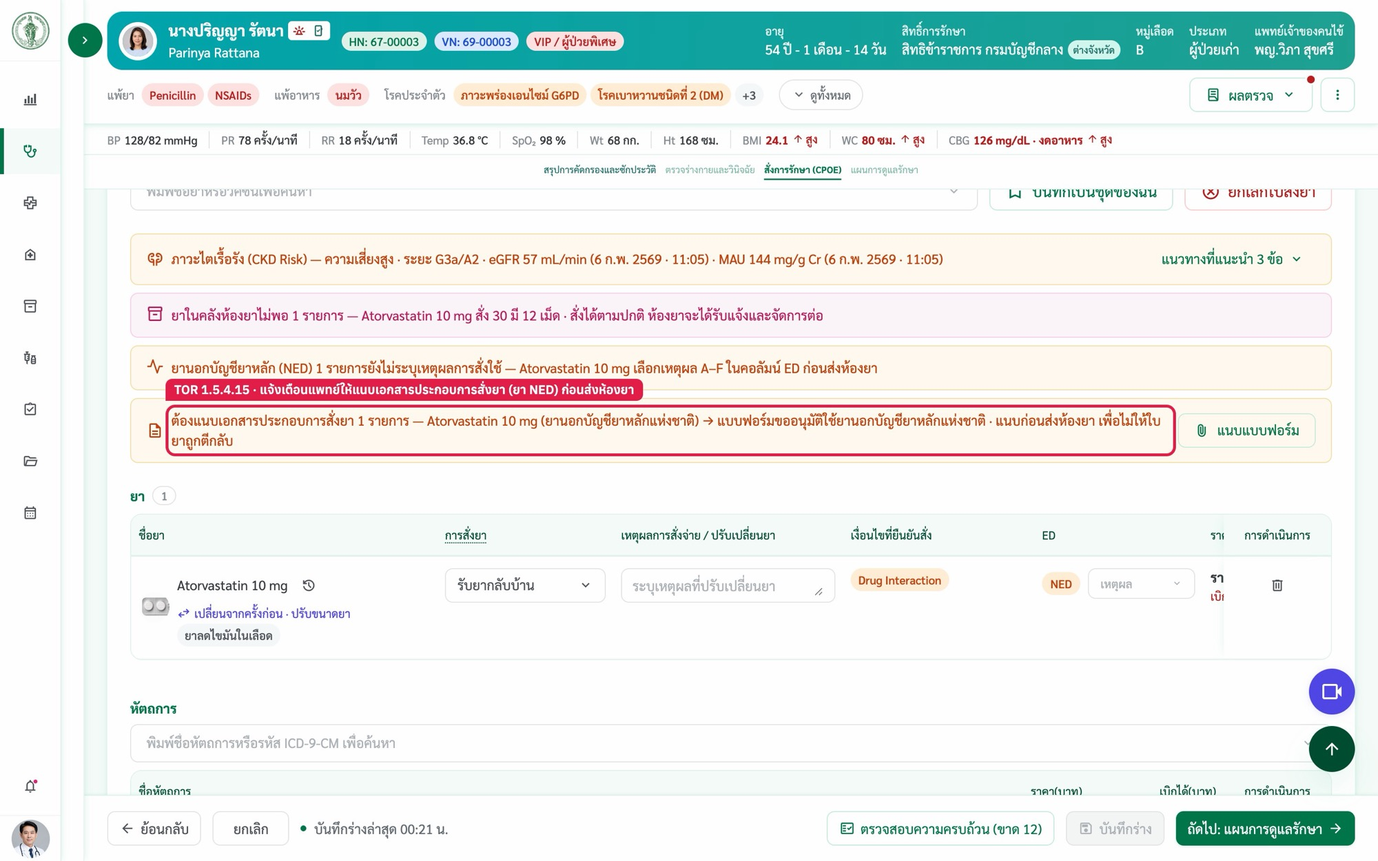
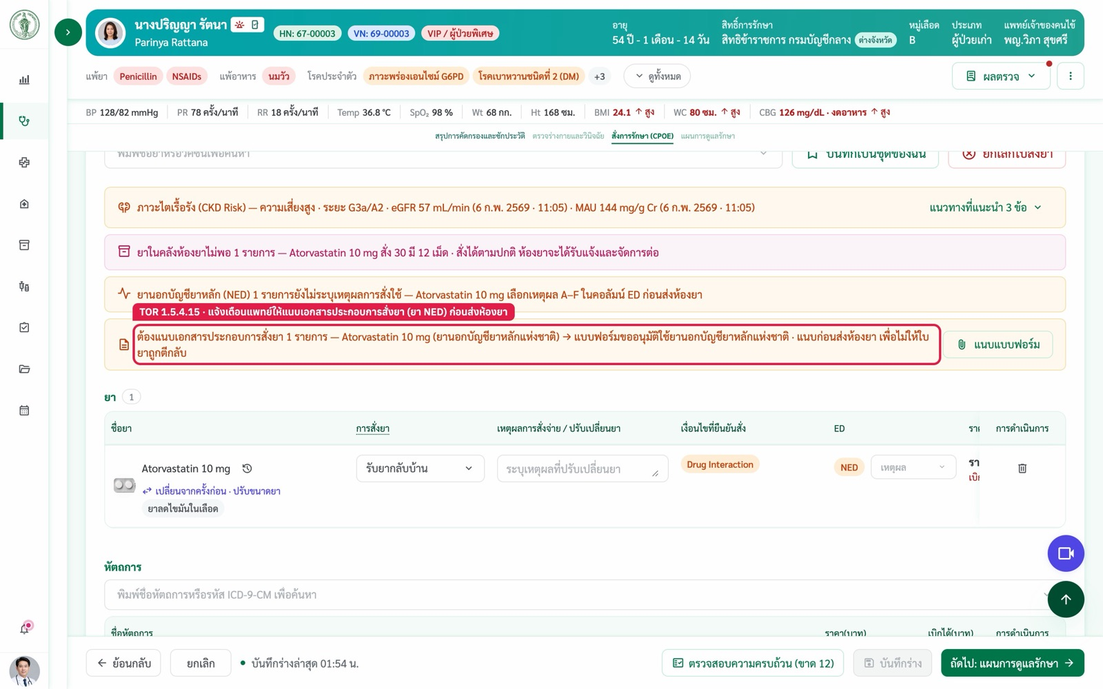
ระบบสั่งการรักษา CPOE (SDD 10.5): แยกเป็นเมนูของตัวเองในรายการปรับปรุง UI/UX (round-2569-11-16-cpoe · ย้ายออกจากรอบงานการเงิน) · 1.5.4.15 เพิ่มภาพป๊อปอัปแนบเอกสารประกอบการสั่งยา (เลือกไฟล์ · แนบแล้ว · มือถือ 390)

Changed region(s): [[0.4062, 0.465, 0.4375, 0.496], [0.0, 0.899, 0.0312, 0.93]]

diff --git a/tor-k9-addiction.html b/tor-k9-addiction.html
@@ -73,6 +73,11 @@
     <p class="lede" data-clinic="คลินิกบำบัดสารเสพติด (คทง.9)">ต้นฉบับ: Google Sheet "PHCIS_UIUX_คณะทำงาน_09" แท็บ Master Checklist (SUD-01–18) · ข้อความใน Excel คัดลอกคำต่อคำ · แก้อะไร · ดูยังไงทีละขั้น · ภาพจากระบบจริง (ข้อมูลผู้ป่วยตัวอย่าง) วงกรอบแดงตรงจุดที่แก้</p>
     <div id="tor-nav"></div>
   </header>
+  <section class="round" id="round-2569-11-16-cpoe">
+  <div class="card" id="cpoe-sdd-summary"><div class="head"><div><h2>รอบ 16 พ.ย. 2569 · ระบบการบันทึกข้อมูลการสั่งการรักษาโดยแพทย์ (CPOE) ตาม SDD 10.5 ข้อที่ BA หาหน้าจอไม่เจอ (2 ข้อ)</h2><p class="sum">ต้นฉบับ: Final 10.5_PHCIS_ระบบการบันทึกข้อมูลการสั่งการรักษาโดยแพทย์ (CPOE)_SDD-10.5 ข้อที่ BA highlight เพราะหาหน้าจอไม่เจอ · ข้อความคัดลอกคำต่อคำ · ภาพจากระบบจริง (ข้อมูลผู้ป่วยตัวอย่าง HN 67-00003) หน้าจอ 1440 px · ทั้ง 2 ข้อยังไม่มีบนหน้าจอ → ทำเพิ่มแล้ว</p></div></div><hr><div class="tbl"><table><thead><tr><th>ข้อ</th><th>เรื่อง</th><th>ระบบที่แก้</th><th>Kiosk (น้องดูแล)</th><th>สถานะ</th></tr></thead><tbody><tr><td class="code"><a href="#cpoe-15415">1.5.4.15</a></td><td>แจ้งเตือนการใช้เอกสารประกอบการสั่งยา (ยา NED)</td><td>เว็บ PHCIS · ห้องตรวจ › สั่งการรักษา (CPOE)</td><td>—</td><td><span class="chip nw c-green">ทำแล้ว · ทดสอบแล้ว</span></td></tr><tr><td class="code"><a href="#cpoe-1584">1.5.8.4</a></td><td>ส่งต่อภายนอก: แสดงวันที่มารับบริการ ระบบเพิ่มข้อมูลอัตโนมัติ</td><td>เว็บ PHCIS · ห้องตรวจ › ส่งต่อภายนอก › ใบส่งต่อการรักษา</td><td>—</td><td><span class="chip nw c-green">ทำแล้ว · ทดสอบแล้ว</span></td></tr></tbody></table></div></div>
+  <div class="card" id="cpoe-15415"><div class="head"><div><h2>1.5.4.15 · แจ้งเตือนการใช้เอกสารประกอบการสั่งยา</h2><p class="sum">SDD 10.5 CPOE · REQ-PHC1.5-44 · ในเอกสาร: "ขาดหน้าการสั่งการรักษา (CPOE) ของแพทย์ที่ต้องแนบเอกสารประกอบการสั่งยา NED"</p></div><span class="chip nw c-green">ทำแล้ว · ทดสอบแล้ว</span></div><hr><dl class="kv"><dt>ระบบที่แก้</dt><dd>เว็บ PHCIS · ห้องตรวจ › สั่งการรักษา (CPOE) · ทุกหน้าที่ใช้ตารางสั่งยาร่วม</dd><dt>Kiosk (น้องดูแล)</dt><dd>—</dd></dl><hr><p class="gh">ข้อความต้นฉบับ (SDD)</p><blockquote>๑.๕.๔.๑๕ สามารถแจ้งเตือนการใช้เอกสารประกอบการสั่งยา เพื่อให้แพทย์รับทราบ และลดการตีกลับของใบยา</blockquote><hr><p class="gh">แก้อะไร / มีอะไร</p><p>เดิมระบบรู้ว่ายาตัวไหนต้องมีแบบฟอร์มประกอบ แต่แถบเตือนอยู่ในแผงเก่าที่หน้าแพทย์ไม่ได้แสดง · รอบนี้เพิ่มแถบเตือนในตาราง CPOE ที่แพทย์ใช้จริง: สั่งยาที่ต้องมีเอกสาร (ยานอกบัญชียาหลัก NED · ยาเสพติดให้โทษ · วัตถุออกฤทธิ์ · ยาความเสี่ยงสูง) → แถบส้ม &quot;ต้องแนบเอกสารประกอบการสั่งยา N รายการ — ชื่อยา → ชื่อแบบฟอร์ม&quot; + ปุ่ม &quot;แนบแบบฟอร์ม&quot; · แนบแล้วแถบเปลี่ยนเป็นสีเขียว &quot;แนบเอกสารประกอบการสั่งยาแล้ว&quot; · ห้องยาเห็นเอกสารที่แพทย์แนบในคอลัมน์ ED · กดแล้วเปิดป๊อปอัปให้เลือกไฟล์ทีละรายการ (เดโมไม่มีที่เก็บไฟล์จริง เก็บชื่อไฟล์ไว้)</p><hr><p class="gh">ดูยังไง</p><ol class="steps"><li>เข้าระบบเป็น &quot;แพทย์&quot; → ห้องตรวจ › ตรวจรักษาทั่วไป (OPD) → เปิด HN 67-00003 (นางปริญญา รัตนา)</li><li>ขั้น &quot;สั่งการรักษา (CPOE)&quot; → ช่องค้นหายา พิมพ์ &quot;Atorvastatin&quot; → เลือก &quot;Atorvastatin 10 mg · ยานอกบัญชี (NED)&quot; (ผ่านป๊อปอัป DI / DUE ตามปกติ)</li><li>ดูแถบส้มเหนือตารางยา → กด &quot;แนบแบบฟอร์ม&quot; → ป๊อปอัป &quot;แนบเอกสารประกอบการสั่งยา&quot; บอกชื่อยา · เหตุที่ต้องแนบ · แบบฟอร์ม</li><li>กด &quot;เลือกไฟล์&quot; (PDF · JPG · PNG) ทีละรายการ → กด &quot;แนบ N รายการ&quot; → แถบเป็นสีเขียวพร้อมชื่อไฟล์</li></ol><hr><div class="shots"><figure><img src="tor-shots/cpoe-2569-11-15-sdd/p15415-1-alert.jpg" alt="สั่งยา NED → แถบเตือนให้แนบแบบฟอร์มขออนุมัติใช้ยานอกบัญชียาหลักแห่งชาติ + ปุ่มแนบแบบฟอร์ม" loading="lazy"><figcaption>สั่งยา NED → แถบเตือนให้แนบแบบฟอร์มขออนุมัติใช้ยานอกบัญชียาหลักแห่งชาติ + ปุ่มแนบแบบฟอร์ม</figcaption></figure><figure><img src="tor-shots/cpoe-2569-11-15-sdd/p15415-2-popup.jpg" alt="กด &quot;แนบแบบฟอร์ม&quot; → ป๊อปอัปแนบเอกสาร บอกยา · เหตุที่ต้องแนบ · แบบฟอร์มที่ต้องใช้" loading="lazy"><figcaption>กด &quot;แนบแบบฟอร์ม&quot; → ป๊อปอัปแนบเอกสาร บอกยา · เหตุที่ต้องแนบ · แบบฟอร์มที่ต้องใช้</figcaption></figure><figure><img src="tor-shots/cpoe-2569-11-15-sdd/p15415-3-picked.jpg" alt="เลือกไฟล์แล้ว → ปุ่ม &quot;แนบ 1 รายการ&quot; กดได้" loading="lazy"><figcaption>เลือกไฟล์แล้ว → ปุ่ม &quot;แนบ 1 รายการ&quot; กดได้</figcaption></figure><figure><img src="tor-shots/cpoe-2569-11-15-sdd/p15415-4-attached.jpg" alt="แนบแล้ว → แถบสีเขียวพร้อมชื่อไฟล์ ห้องยาเห็นเอกสารในคอลัมน์ ED" loading="lazy"><figcaption>แนบแล้ว → แถบสีเขียวพร้อมชื่อไฟล์ ห้องยาเห็นเอกสารในคอลัมน์ ED</figcaption></figure><figure><img src="tor-shots/cpoe-2569-11-15-sdd/p15415-5-popup-390.jpg" alt="ป๊อปอัปแนบเอกสารบนมือถือ 390 px" loading="lazy"><figcaption>ป๊อปอัปแนบเอกสารบนมือถือ 390 px</figcaption></figure></div></div>
+  <div class="card" id="cpoe-1584"><div class="head"><div><h2>1.5.8.4 · ส่งต่อภายนอก: แสดงวันที่มารับบริการ ระบบเพิ่มข้อมูลอัตโนมัติ</h2><p class="sum">SDD 10.5 CPOE · REQ-PHC1.5-67 · ในเอกสาร: "ขาดภาพการแสดงวันที่มารับบริการ ระบบดำเนินการเพิ่มข้อมูลอัตโนมัติ"</p></div><span class="chip nw c-green">ทำแล้ว · ทดสอบแล้ว</span></div><hr><dl class="kv"><dt>ระบบที่แก้</dt><dd>เว็บ PHCIS · ห้องตรวจ › ส่งต่อภายนอก › ใบส่งต่อการรักษา (หน้าจอ + ใบพิมพ์)</dd><dt>Kiosk (น้องดูแล)</dt><dd>—</dd></dl><hr><p class="gh">ข้อความต้นฉบับ (SDD)</p><blockquote>๑.๕.๘.๔ ส่งต่อภายนอก โดยประกอบด้วยรายละเอียด ดังนี้ · - สามารถแสดงวันที่มารับบริการ ระบบดำเนินการเพิ่มข้อมูลอัตโนมัติ</blockquote><hr><p class="gh">แก้อะไร / มีอะไร</p><p>ใบส่งต่อการรักษามีแถว &quot;วันที่มารับบริการ&quot; ใต้ &quot;เลขที่ส่งต่อ&quot; · ระบบใส่ให้เองเป็นวันที่ของการมารับบริการครั้งนี้ ผู้ใช้ไม่ต้องกรอก · ใบเก่าที่ยังไม่มีค่านี้ใช้วันที่สร้างใบ · แสดงทั้งบนจอและตอนพิมพ์ (เลขที่ส่งต่อออกอัตโนมัติอยู่แล้ว)</p><hr><p class="gh">ดูยังไง</p><ol class="steps"><li>เข้าระบบเป็น &quot;แพทย์&quot; → ห้องตรวจ › ตรวจรักษาทั่วไป (OPD) → เปิด HN 67-00003</li><li>ปุ่มหัวหน้า &quot;ส่งต่อภายนอก&quot; → เลือก &quot;ส่งต่อไปที่ (สถานพยาบาลปลายทาง)&quot; เช่น โรงพยาบาลกลาง</li><li>แถว &quot;ใบส่งต่อการรักษา&quot; → &quot;ดูตัวอย่าง / พิมพ์&quot; → ดูแถว &quot;วันที่มารับบริการ&quot;</li></ol><hr><div class="shots"><figure><img src="tor-shots/cpoe-2569-11-15-sdd/p1584-refer-visit-date.jpg" alt="ใบส่งต่อการรักษา: วันที่มารับบริการ + เลขที่ส่งต่อ ระบบใส่ให้อัตโนมัติ" loading="lazy"><figcaption>ใบส่งต่อการรักษา: วันที่มารับบริการ + เลขที่ส่งต่อ ระบบใส่ให้อัตโนมัติ</figcaption></figure></div></div>
+  </section>
   <section class="round" id="round-2569-11-16-telemed">
   <div class="card" id="tm-summary"><div class="head"><div><h2>รอบ 16 พ.ย. 2569 · ระบบ Telemedicine ตาม SDD 10.5 ข้อที่ BA หาหน้าจอไม่เจอ (2 ข้อ)</h2><p class="sum">ต้นฉบับ: SDD 10.5 Telemedicine พร้อมการตรวจผู้รับบริการระยะไกล (RPM) (XX102026) ข้อที่ highlight สีแดงในตารางความต้องการ (REQ-PHC1.13-02 · REQ-PHC1.13-10) · ข้อความคัดลอกคำต่อคำ · ภาพจากระบบจริง (ข้อมูลตัวอย่าง) หน้าจอ 1440 px + มือถือ 390 px · มีในระบบแล้วทั้ง 2 ข้อ ไม่ต้องสร้างหน้าใหม่ · แก้เล็กน้อย 1 จุด (หน้าบันทึกการประเมินที่จอ 390 เลื่อนแนวนอนได้ 90 px เพราะป้ายชื่อผู้ใช้ข้างตัวเลือกบทบาทไม่ขึ้นบรรทัดใหม่) · Mobile App / Kiosk ไม่เกี่ยว · ตรวจจอ 1440 · 1024 · 768 · 390 ไม่มีเลื่อนแนวนอน</p></div></div><hr>
     <div class="tbl"><table><thead><tr><th>ข้อ</th><th>เรื่อง</th><th>ระบบที่แก้</th><th>Kiosk (น้องดูแล)</th><th>สถานะ</th></tr></thead><tbody><tr><td class="code"><a href="#tm-1132">1.13.2</a></td><td>ผู้ได้รับสิทธิ์เพิ่มหรือแก้ไขข้อมูลการประเมิน</td><td>เว็บ PHCIS · ระบบ Telemedicine › บันทึกการประเมินทางไกล</td><td>—</td><td><span class="chip nw c-green">มีในระบบแล้ว · ทดสอบแล้ว</span></td></tr><tr><td class="code"><a href="#tm-11310">1.13.10</a></td><td>รายงานผลการปรึกษาทางไกล (ระยะเวลา · โทรเข้า-ออก · แพทย์)</td><td>เว็บ PHCIS · ระบบ Telemedicine › รายงานสถิติและบันทึกการเข้าใช้งาน</td><td>—</td><td><span class="chip nw c-green">มีในระบบแล้ว · ทดสอบแล้ว</span></td></tr></tbody></table></div></div>
@@ -114,9 +119,6 @@
   <div class="card" id="fin-46"><div class="head"><div><h2>FIN-46 · แสดงสถานะ &quot;มีหัตถการค้าง&quot; ให้ทั้ง 3 จุดเห็น</h2><p class="sum">SDD 10.5 ระบบงานการเงิน (10112026) · highlight สีเหลือง</p></div><span class="chip nw c-green">ทำแล้ว · ทดสอบแล้ว</span></div><hr><dl class="kv"><dt>ระบบที่แก้</dt><dd>เว็บ PHCIS · พยาบาลหลังตรวจ /exit · ห้องยา /pharmacy/queue · การเงิน /finance</dd><dt>Kiosk (น้องดูแล)</dt><dd>—</dd></dl><hr><p class="gh">ข้อความต้นฉบับ (SDD)</p><blockquote>FIN-46 แสดงสถานะ &quot;มีหัตถการค้าง&quot; ให้ทั้ง 3 จุดเห็น เพื่อแจ้งผู้รับบริการได้ถูกต้อง · หน้าจอที่เกี่ยวข้อง: หน้าพยาบาลหลังห้องตรวจ / ห้องยา / ห้องการเงิน</blockquote><hr><p class="gh">แก้อะไร / มีอะไร</p><p>ไอคอนสีส้ม (healing) หลังชื่อผู้รับบริการ เมื่อห้องหัตถการวันนี้ยัง &quot;รอทำหัตถการ&quot; หรือ &quot;กำลังทำหัตถการ&quot; · ชี้/แตะ = สถานะ · คิวห้องหัตถการ · หัตถการ · เตียง/เก้าอี้ + &quot;แจ้งผู้รับบริการให้ไปห้องหัตถการก่อนกลับบ้าน&quot; · ข้อมูลชุดเดียวกับห้องหัตถการ ทั้ง 3 จุดเห็นตรงกัน · ทำหัตถการเสร็จ = ไอคอนหายเอง</p><hr><p class="gh">ดูยังไง</p><ol class="steps"><li>พยาบาลหลังตรวจ: /exit → แถว HN 67-00001 / 67-00003</li><li>เภสัชกร: /pharmacy/queue</li><li>ฝ่ายการเงิน: /finance → แถว HN 67-00001</li></ol><hr><div class="shots"><figure><img src="tor-shots/finance-2569-11-15-fin/p46-exit.jpg" alt="พยาบาลหลังตรวจ" loading="lazy"><figcaption>พยาบาลหลังตรวจ</figcaption></figure><figure><img src="tor-shots/finance-2569-11-15-fin/p46-pharmacy.jpg" alt="ห้องยา" loading="lazy"><figcaption>ห้องยา</figcaption></figure><figure><img src="tor-shots/finance-2569-11-15-fin/p46-finance.jpg" alt="การเงิน" loading="lazy"><figcaption>การเงิน</figcaption></figure></div></div>
   <div class="card" id="fin-66"><div class="head"><div><h2>FIN-66 · เพิ่มฟิลด์ &quot;จำนวนแผล&quot; เพื่อคูณคำนวณราคา</h2><p class="sum">SDD 10.5 ระบบงานการเงิน (10112026) · highlight สีเหลือง</p></div><span class="chip nw c-green">ทำแล้ว · ทดสอบแล้ว</span></div><hr><dl class="kv"><dt>ระบบที่แก้</dt><dd>เว็บ PHCIS · การเงิน › ชำระเงิน › รายการค่าใช้จ่าย (ค่าทำแผล)</dd><dt>Kiosk (น้องดูแล)</dt><dd>—</dd></dl><hr><p class="gh">ข้อความต้นฉบับ (SDD)</p><blockquote>FIN-66 เพิ่มฟิลด์ &quot;จำนวนแผล&quot; เพื่อคูณคำนวณราคา · หน้าจอที่เกี่ยวข้อง: หน้าคิวชำระเงิน (หัตถการทำแผล) · • ใช้กับสิทธิเบิกได้ / จ่ายตรง · • ข้อมูลที่ต้องบันทึก: จำนวนแผล</blockquote><hr><p class="gh">แก้อะไร / มีอะไร</p><p>บรรทัด &quot;ค่าทำแผล&quot; ในบิลแสดงข้อความ &quot;จำนวนแผล 2 แผล × 350 บาท/แผล · จากห้องหัตถการ&quot; · จำนวนแผลดึงจากที่ห้องหัตถการกรอก (ข้อมูลแผล › จำนวนแผล) การเงินแก้ไม่ได้ (16 พ.ย. 69 เปลี่ยนจากปุ่ม − / +) · ราคา = จำนวนแผล × ราคาต่อแผล (2 × 350 = 700 บาท)</p><hr><p class="gh">ดูยังไง</p><ol class="steps"><li>/finance → ค้นหา HN 67-00011 → &quot;ชำระเงิน&quot; → &quot;ยืนยัน&quot;</li><li>บรรทัด &quot;ค่าทำแผล&quot; → ข้อความจำนวนแผลใต้ชื่อรายการ</li></ol><hr><div class="shots"><figure><img src="tor-shots/finance-2569-11-15-fin/fin66-text.jpg" alt="จำนวนแผลเป็นข้อความจากห้องหัตถการ · 2 × 350 = 700 บาท" loading="lazy"><figcaption>จำนวนแผลเป็นข้อความจากห้องหัตถการ · 2 × 350 = 700 บาท</figcaption></figure><figure><img src="tor-shots/finance-2569-11-15-fin/fin66-text-390.jpg" alt="จอมือถือ 390 px" loading="lazy"><figcaption>จอมือถือ 390 px</figcaption></figure></div></div>
   <div class="card" id="fin-88"><div class="head"><div><h2>FIN-88 · แจ้งเตือนที่หน้าจอการเงินว่าผู้รับบริการรายใดชำระเงินแล้ว (ชำระผ่านตู้ Kiosk)</h2><p class="sum">SDD 10.5 ระบบงานการเงิน (10112026) · highlight สีเหลือง</p></div><span class="chip nw c-orange">ทำแล้ว · ทดสอบแล้ว · ข้อมูลชำระผ่านตู้เป็นตัวอย่าง</span></div><hr><dl class="kv"><dt>ระบบที่แก้</dt><dd>เว็บ PHCIS · การเงิน (กระดิ่งหมวด &quot;การเงิน&quot; + ลำดับคิว)</dd><dt>Kiosk (น้องดูแล)</dt><dd>—</dd></dl><hr><p class="gh">ข้อความต้นฉบับ (SDD)</p><blockquote>FIN-88 แสดงการแจ้งเตือนที่หน้าจอการเงินว่าผู้รับบริการรายใดชำระเงินแล้ว · หน้าจอที่เกี่ยวข้อง: หน้าจอการเงิน (รับชำระผ่านตู้ Kiosk) · • กรณีชำระเงินผ่านตู้ Kiosk</blockquote><hr><p class="gh">แก้อะไร / มีอะไร</p><p>ผู้รับบริการชำระเองที่ตู้ Kiosk → การ์ดแจ้งเตือนมุมขวาบน &quot;ผู้รับบริการชำระเงินผ่านตู้ Kiosk แล้ว&quot; (HN · ชื่อ · ยอด · เลขใบเสร็จ · เวลา) และอยู่ในกระดิ่งหมวด &quot;การเงิน&quot; · แจ้งครั้งเดียวต่อใบเสร็จ · ในลำดับคิวแท็บ &quot;ชำระแล้ว&quot; มีบรรทัด &quot;ชำระผ่านตู้ Kiosk · เวลา&quot; ใต้ชื่อ · เมื่อเชื่อมตู้จริง การชำระจากตู้จะปรับแถวเป็นชำระแล้วและแจ้งเตือนทันที · ตอนนี้ใช้ข้อมูลตัวอย่าง 2 ใบ</p><hr><p class="gh">ดูยังไง</p><ol class="steps"><li>เข้าระบบเป็น &quot;ฝ่ายการเงิน&quot; → /finance → การ์ดแจ้งเตือนมุมขวาบน</li><li>ลำดับคิว → แท็บ &quot;ชำระแล้ว&quot; → แถว HN 67-00026 / 67-00038</li></ol><hr><div class="shots"><figure><img src="tor-shots/finance-2569-11-15-fin/p46-finance.jpg" alt="การ์ดแจ้งเตือนชำระผ่านตู้ Kiosk" loading="lazy"><figcaption>การ์ดแจ้งเตือนชำระผ่านตู้ Kiosk</figcaption></figure><figure><img src="tor-shots/finance-2569-11-15-fin/k-2-row.jpg" alt="บรรทัดชำระผ่านตู้ Kiosk ใต้ชื่อ" loading="lazy"><figcaption>บรรทัดชำระผ่านตู้ Kiosk ใต้ชื่อ</figcaption></figure></div></div>
-    <div class="card" id="cpoe-sdd-summary"><div class="head"><div><h2>SDD 10.5 ระบบการบันทึกข้อมูลการสั่งการรักษาโดยแพทย์ (CPOE) · ข้อที่ highlight (2 ข้อ)</h2><p class="sum">ต้นฉบับ: Final 10.5_PHCIS_ระบบการบันทึกข้อมูลการสั่งการรักษาโดยแพทย์ (CPOE)_SDD-10.5 ข้อที่ BA highlight เพราะหาหน้าจอไม่เจอ · ข้อความคัดลอกคำต่อคำ · ภาพจากระบบจริง (ข้อมูลผู้ป่วยตัวอย่าง HN 67-00003) หน้าจอ 1440 px · ทั้ง 2 ข้อยังไม่มีบนหน้าจอ → ทำเพิ่มแล้ว</p></div></div><hr><div class="tbl"><table><thead><tr><th>ข้อ</th><th>เรื่อง</th><th>ระบบที่แก้</th><th>Kiosk (น้องดูแล)</th><th>สถานะ</th></tr></thead><tbody><tr><td class="code"><a href="#cpoe-15415">1.5.4.15</a></td><td>แจ้งเตือนการใช้เอกสารประกอบการสั่งยา (ยา NED)</td><td>เว็บ PHCIS · ห้องตรวจ › สั่งการรักษา (CPOE)</td><td>—</td><td><span class="chip nw c-green">ทำแล้ว · ทดสอบแล้ว</span></td></tr><tr><td class="code"><a href="#cpoe-1584">1.5.8.4</a></td><td>ส่งต่อภายนอก: แสดงวันที่มารับบริการ ระบบเพิ่มข้อมูลอัตโนมัติ</td><td>เว็บ PHCIS · ห้องตรวจ › ส่งต่อภายนอก › ใบส่งต่อการรักษา</td><td>—</td><td><span class="chip nw c-green">ทำแล้ว · ทดสอบแล้ว</span></td></tr></tbody></table></div></div>
-  <div class="card" id="cpoe-15415"><div class="head"><div><h2>1.5.4.15 · แจ้งเตือนการใช้เอกสารประกอบการสั่งยา</h2><p class="sum">SDD 10.5 CPOE · REQ-PHC1.5-44 · ในเอกสาร: "ขาดหน้าการสั่งการรักษา (CPOE) ของแพทย์ที่ต้องแนบเอกสารประกอบการสั่งยา NED"</p></div><span class="chip nw c-green">ทำแล้ว · ทดสอบแล้ว</span></div><hr><dl class="kv"><dt>ระบบที่แก้</dt><dd>เว็บ PHCIS · ห้องตรวจ › สั่งการรักษา (CPOE) · ทุกหน้าที่ใช้ตารางสั่งยาร่วม</dd><dt>Kiosk (น้องดูแล)</dt><dd>—</dd></dl><hr><p class="gh">ข้อความต้นฉบับ (SDD)</p><blockquote>๑.๕.๔.๑๕ สามารถแจ้งเตือนการใช้เอกสารประกอบการสั่งยา เพื่อให้แพทย์รับทราบ และลดการตีกลับของใบยา</blockquote><hr><p class="gh">แก้อะไร / มีอะไร</p><p>เดิมระบบรู้ว่ายาตัวไหนต้องมีแบบฟอร์มประกอบ แต่แถบเตือนอยู่ในแผงเก่าที่หน้าแพทย์ไม่ได้แสดง · รอบนี้เพิ่มแถบเตือนในตาราง CPOE ที่แพทย์ใช้จริง: สั่งยาที่ต้องมีเอกสาร (ยานอกบัญชียาหลัก NED · ยาเสพติดให้โทษ · วัตถุออกฤทธิ์ · ยาความเสี่ยงสูง) → แถบส้ม &quot;ต้องแนบเอกสารประกอบการสั่งยา N รายการ — ชื่อยา → ชื่อแบบฟอร์ม&quot; + ปุ่ม &quot;แนบแบบฟอร์ม&quot; · แนบแล้วแถบเปลี่ยนเป็นสีเขียว &quot;แนบเอกสารประกอบการสั่งยาแล้ว&quot; · ห้องยาเห็นเอกสารที่แพทย์แนบในคอลัมน์ ED · เดโมแนบแบบฟอร์มตัวอย่าง ไม่มีที่เก็บไฟล์จริง</p><hr><p class="gh">ดูยังไง</p><ol class="steps"><li>เข้าระบบเป็น &quot;แพทย์&quot; → ห้องตรวจ › ตรวจรักษาทั่วไป (OPD) → เปิด HN 67-00003 (นางปริญญา รัตนา)</li><li>ขั้น &quot;สั่งการรักษา (CPOE)&quot; → ช่องค้นหายา พิมพ์ &quot;Atorvastatin&quot; → เลือก &quot;Atorvastatin 10 mg · ยานอกบัญชี (NED)&quot; (ผ่านป๊อปอัป DI / DUE ตามปกติ)</li><li>ดูแถบส้มเหนือตารางยา → กด &quot;แนบแบบฟอร์ม&quot; → แถบเป็นสีเขียว</li></ol><hr><div class="shots"><figure><img src="tor-shots/cpoe-2569-11-15-sdd/p15415-1-alert.jpg" alt="สั่งยา NED → แถบเตือนให้แนบแบบฟอร์มขออนุมัติใช้ยานอกบัญชียาหลักแห่งชาติ + ปุ่มแนบแบบฟอร์ม" loading="lazy"><figcaption>สั่งยา NED → แถบเตือนให้แนบแบบฟอร์มขออนุมัติใช้ยานอกบัญชียาหลักแห่งชาติ + ปุ่มแนบแบบฟอร์ม</figcaption></figure><figure><img src="tor-shots/cpoe-2569-11-15-sdd/p15415-2-attached.jpg" alt="แนบแล้ว → แถบสีเขียว ห้องยาเห็นเอกสารในคอลัมน์ ED" loading="lazy"><figcaption>แนบแล้ว → แถบสีเขียว ห้องยาเห็นเอกสารในคอลัมน์ ED</figcaption></figure></div></div>
-  <div class="card" id="cpoe-1584"><div class="head"><div><h2>1.5.8.4 · ส่งต่อภายนอก: แสดงวันที่มารับบริการ ระบบเพิ่มข้อมูลอัตโนมัติ</h2><p class="sum">SDD 10.5 CPOE · REQ-PHC1.5-67 · ในเอกสาร: "ขาดภาพการแสดงวันที่มารับบริการ ระบบดำเนินการเพิ่มข้อมูลอัตโนมัติ"</p></div><span class="chip nw c-green">ทำแล้ว · ทดสอบแล้ว</span></div><hr><dl class="kv"><dt>ระบบที่แก้</dt><dd>เว็บ PHCIS · ห้องตรวจ › ส่งต่อภายนอก › ใบส่งต่อการรักษา (หน้าจอ + ใบพิมพ์)</dd><dt>Kiosk (น้องดูแล)</dt><dd>—</dd></dl><hr><p class="gh">ข้อความต้นฉบับ (SDD)</p><blockquote>๑.๕.๘.๔ ส่งต่อภายนอก โดยประกอบด้วยรายละเอียด ดังนี้ · - สามารถแสดงวันที่มารับบริการ ระบบดำเนินการเพิ่มข้อมูลอัตโนมัติ</blockquote><hr><p class="gh">แก้อะไร / มีอะไร</p><p>ใบส่งต่อการรักษามีแถว &quot;วันที่มารับบริการ&quot; ใต้ &quot;เลขที่ส่งต่อ&quot; · ระบบใส่ให้เองเป็นวันที่ของการมารับบริการครั้งนี้ ผู้ใช้ไม่ต้องกรอก · ใบเก่าที่ยังไม่มีค่านี้ใช้วันที่สร้างใบ · แสดงทั้งบนจอและตอนพิมพ์ (เลขที่ส่งต่อออกอัตโนมัติอยู่แล้ว)</p><hr><p class="gh">ดูยังไง</p><ol class="steps"><li>เข้าระบบเป็น &quot;แพทย์&quot; → ห้องตรวจ › ตรวจรักษาทั่วไป (OPD) → เปิด HN 67-00003</li><li>ปุ่มหัวหน้า &quot;ส่งต่อภายนอก&quot; → เลือก &quot;ส่งต่อไปที่ (สถานพยาบาลปลายทาง)&quot; เช่น โรงพยาบาลกลาง</li><li>แถว &quot;ใบส่งต่อการรักษา&quot; → &quot;ดูตัวอย่าง / พิมพ์&quot; → ดูแถว &quot;วันที่มารับบริการ&quot;</li></ol><hr><div class="shots"><figure><img src="tor-shots/cpoe-2569-11-15-sdd/p1584-refer-visit-date.jpg" alt="ใบส่งต่อการรักษา: วันที่มารับบริการ + เลขที่ส่งต่อ ระบบใส่ให้อัตโนมัติ" loading="lazy"><figcaption>ใบส่งต่อการรักษา: วันที่มารับบริการ + เลขที่ส่งต่อ ระบบใส่ให้อัตโนมัติ</figcaption></figure></div></div>
   </section>
   <section class="round" id="round-2569-11-14-finance">
   <div class="card" id="fin-summary"><div class="head"><div><h2>รอบ 14 พ.ย. 2569 · งานการเงิน ตามคอมเมนต์ลูกค้า (18 ข้อ)</h2><p class="sum">ข้อความลูกค้าคัดลอกคำต่อคำ · ภาพจากระบบจริง (ข้อมูลผู้ป่วยตัวอย่าง) หน้าจอ 1440 px · กรอบแดง = จุดที่แก้ · ทุกข้อแก้ที่เว็บ PHCIS · Mobile App ไม่มีข้อที่ต้องแก้ · คอลัมน์ Kiosk = จุดที่ตู้เกี่ยวข้อง (ยังไม่ได้แก้ที่ตู้) · ตรวจจอ 1440 · 1024 · 768 · 390 ไม่มีเลื่อนแนวนอน</p></div></div><hr>

diff --git a/tor-updates-nav.js b/tor-updates-nav.js
@@ -3,6 +3,7 @@
    clinic = ชื่อเดียวกับรายการในเมนูซ้ายของหน้ารวมเอกสาร (ตัวอักษรตรงกัน) · ใช้ตั้งหัวเรื่อง h1 และให้เมนูซ้าย highlight รายการของรอบที่เลือก (ผู้ใช้ 15 พ.ย. 69 "หัวข้อ กับ sidemenu และ dropdown ต้องสัมพันธ์กัน") */
 (function () {
   var TOR_UPDATES = [
+    { clinic: 'ระบบสั่งการรักษา CPOE (SDD 10.5)', date: '16 พ.ย. 2569', note: '2 ข้อที่ BA หาหน้าจอไม่เจอ · แจ้งเตือนแนบเอกสารประกอบการสั่งยา (NED) · วันที่มารับบริการในใบส่งต่อภายนอก', href: 'tor-k9-addiction.html#round-2569-11-16-cpoe' },
     { clinic: 'ระบบ Telemedicine (SDD 10.5)', date: '16 พ.ย. 2569', note: '2 ข้อที่ BA หาหน้าจอไม่เจอ · สิทธิ์เพิ่ม/แก้ไขข้อมูลการประเมิน · รายงานระยะเวลาปรึกษา · สถิติโทรเข้า-ออก · สถิติแพทย์', href: 'tor-k9-addiction.html#round-2569-11-16-telemed' },
     { clinic: 'ระบบบริหารจัดการคิว (คทง.1)', date: '15 พ.ย. 2569', note: '6 ข้อที่ BA หาหน้าจอไม่เจอ · เสร็จสิ้นคิว · ตัดคิวออกจากจอ · สถานะเตรียมยา · ประเภทคิว · เตือนเวลารอ · ข้อความบนบัตรคิว', href: 'tor-k9-addiction.html#round-2569-11-15-queue' },
     { clinic: 'งานการเงิน (คทง.8)', date: '15 พ.ย. 2569', note: 'ตาม TOR (SDD 10.5 สิทธิและการเบิกจ่าย + ระบบงานการเงิน) · 10 ข้อที่ BA หาหน้าจอไม่เจอ + 9 ข้อ highlight การเงิน · ตั้งค่าสิทธิ · เปลี่ยนสิทธิ · ICD10 Coder · Refer · SSOP · ประวัติตรวจสอบสิทธิ + 43 แฟ้ม', href: 'tor-k9-addiction.html#round-2569-11-15-finance' },

diff --git a/index.html b/index.html
@@ -304,6 +304,11 @@
         <p class="card-sum">2 รอบ: 15 พ.ย. ตาม TOR (SDD 10.5 สิทธิและการเบิกจ่าย) · 14 พ.ย. คอมเมนต์ลูกค้า 18 ข้อ · เลือกรอบที่ "วันที่ปรับปรุง" · อัปเดต 15 พ.ย. 69</p>
         <span class="card-url">tor-k9-addiction#finance<span class="material-symbols-outlined" aria-hidden="true">arrow_outward</span></span>
       </a>
+      <a class="card" href="tor-k9-addiction.html#round-2569-11-16-cpoe">
+        <span class="card-top"><span class="material-symbols-outlined card-icon" aria-hidden="true">prescriptions</span><span class="card-title">ระบบสั่งการรักษา CPOE (SDD 10.5)</span></span>
+        <p class="card-sum">2 ข้อที่ BA หาหน้าจอไม่เจอ · แจ้งเตือนแนบเอกสารประกอบการสั่งยา (NED) · วันที่มารับบริการในใบส่งต่อภายนอก · อัปเดต 16 พ.ย. 69</p>
+        <span class="card-url">tor-k9-addiction#round-2569-11-16-cpoe<span class="material-symbols-outlined" aria-hidden="true">arrow_outward</span></span>
+      </a>
       <a class="card" href="tor-k9-addiction.html#round-2569-11-16-telemed">
         <span class="card-top"><span class="material-symbols-outlined card-icon" aria-hidden="true">video_call</span><span class="card-title">ระบบ Telemedicine (SDD 10.5)</span></span>
         <p class="card-sum">2 ข้อที่ BA หาหน้าจอไม่เจอ · สิทธิ์เพิ่ม/แก้ไขข้อมูลการประเมิน · รายงานระยะเวลา · โทรเข้า-ออก · สถิติแพทย์ · อัปเดต 16 พ.ย. 69</p>
